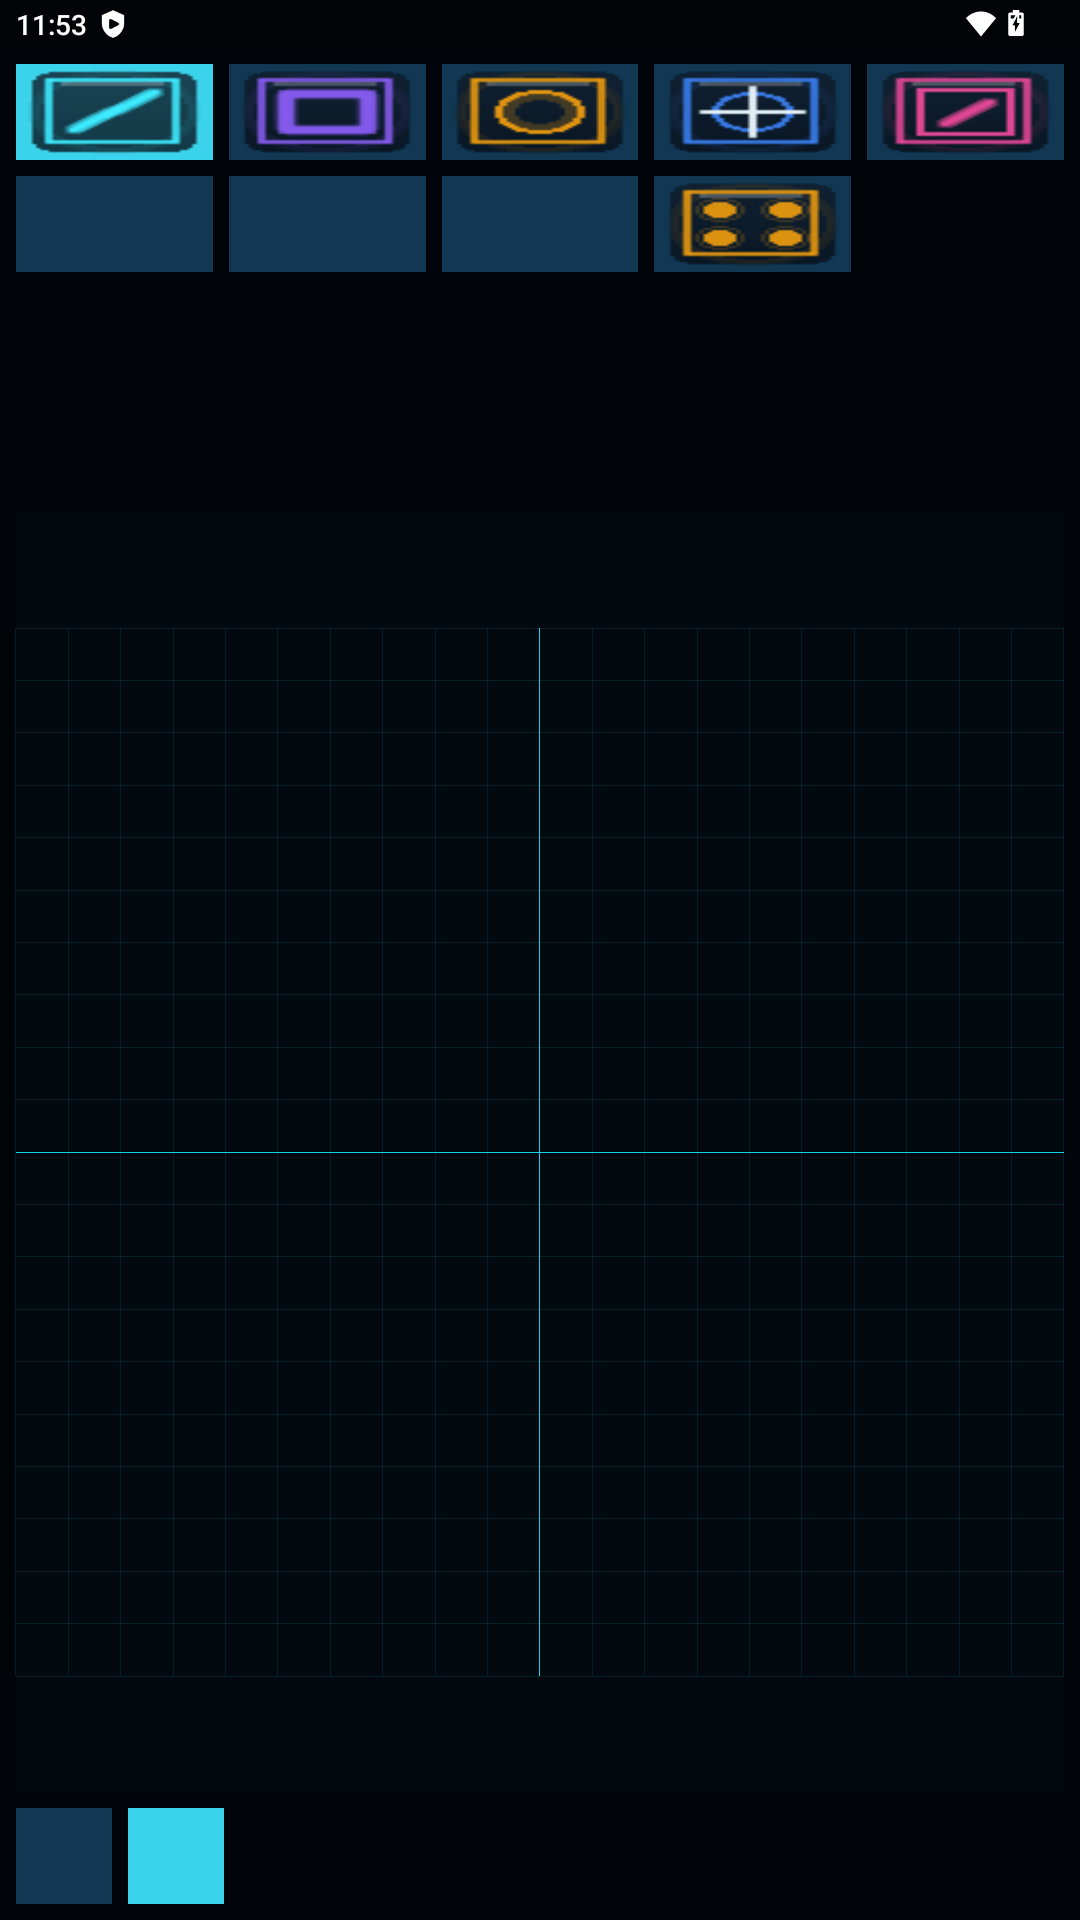
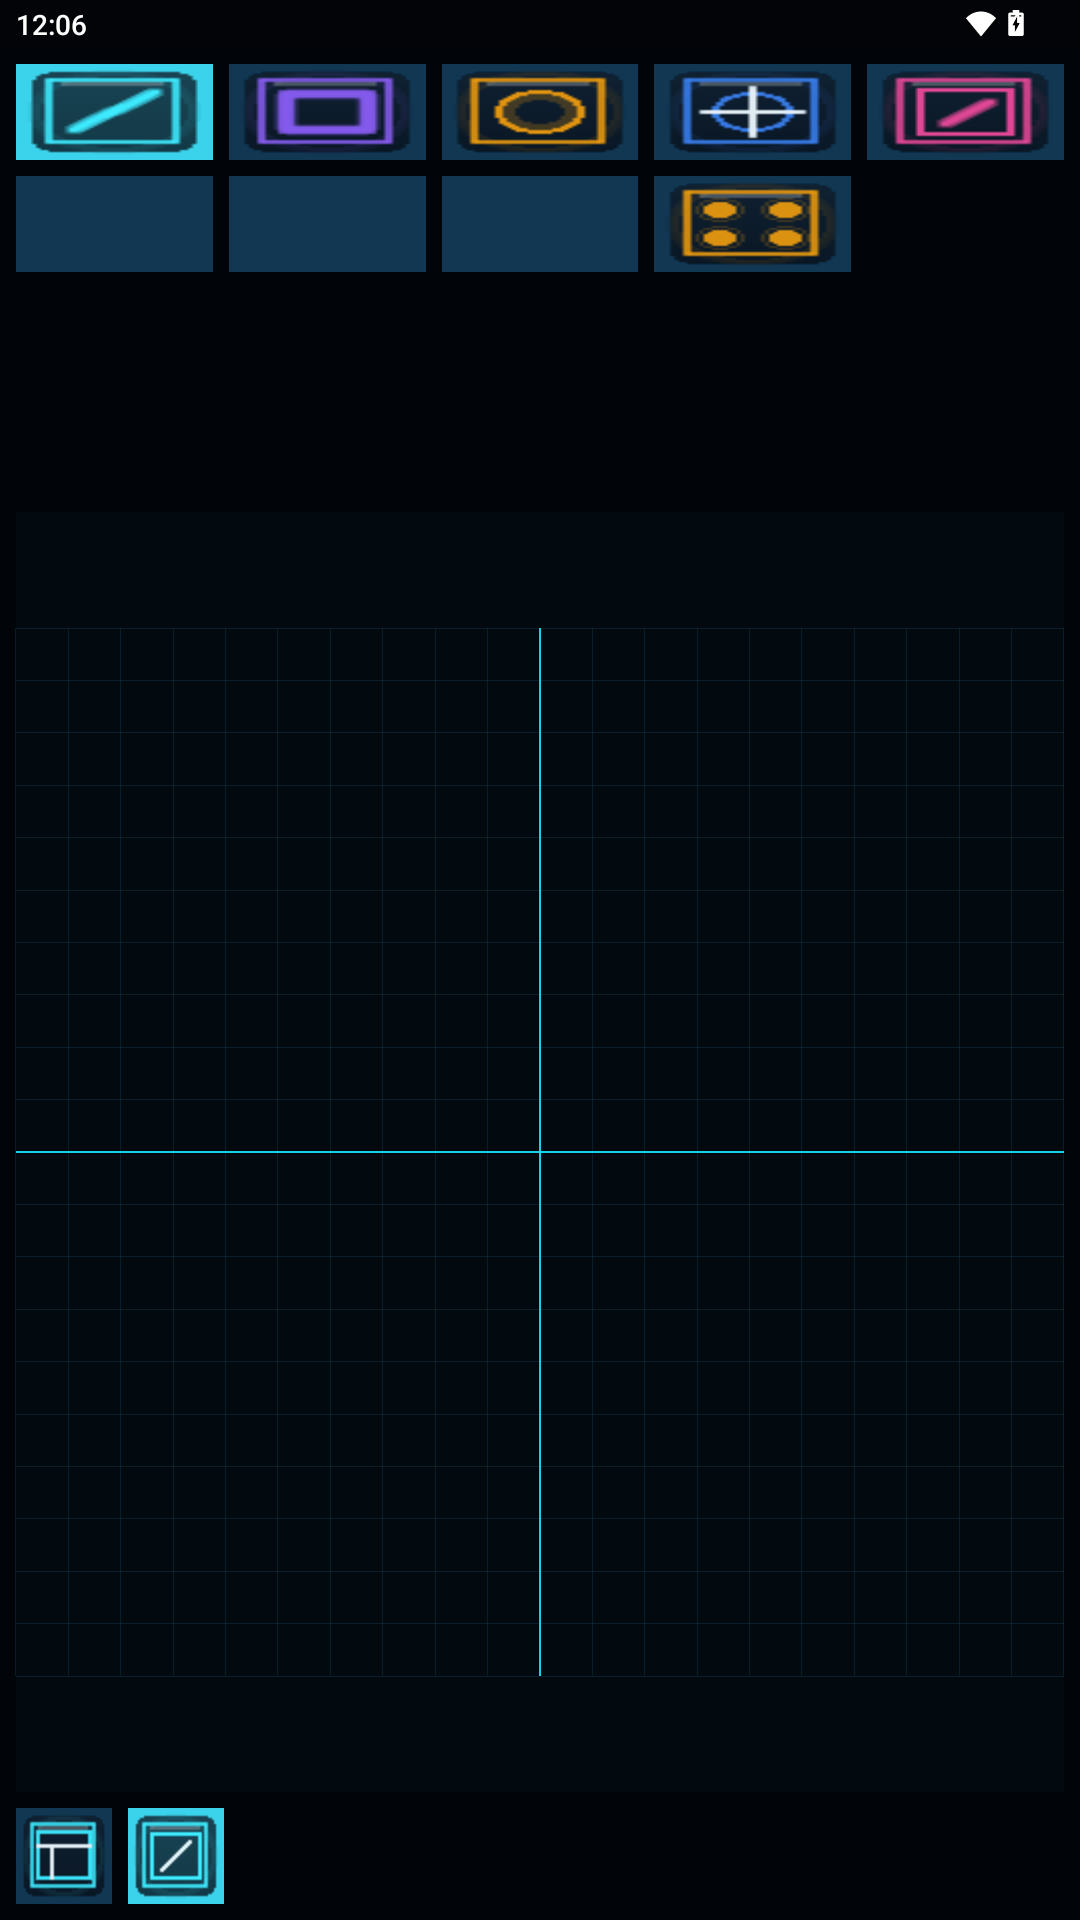
test(runtime4): refresh RGB navigation Nox evidence

Changed region(s): [[0.1222, 0.9375, 0.2139, 1.0], [0.0, 0.9375, 0.0917, 1.0], [0.0306, 0.0, 0.1222, 0.0312]]

diff --git a/docs/superpowers/progress/2026-10-09-fourth-runtime-cad-progress.md b/docs/superpowers/progress/2026-10-09-fourth-runtime-cad-progress.md
@@ -1,46 +1,44 @@
 # Fourth Runtime CAD Progress — AIG CNC 395-fourth-cad
 
-Date: 2026-10-09
-Branch: $branch
-Pre-Task-6 HEAD: $head
-Plan: docs/superpowers/plans/2026-10-09-fourth-runtime-foundation-cad-implementation.md
-Spec: docs/superpowers/specs/2026-10-09-aig-fourth-runtime-architecture-design.md
+Date: 2026-10-10
+Branch: `feat/aig-cnc-395-fourth-runtime-cad`
+Pre-Task-6 HEAD: `d3ea35ebf5d141988cb6761e8145b533bd0c6002`
+Verified runtime-code HEAD before evidence refresh: `891b42d9b2a0f2e014c00cf0acda9d6d6c0f578a`
+Plan: `docs/superpowers/plans/2026-10-09-fourth-runtime-foundation-cad-implementation.md`
+Spec: `docs/superpowers/specs/2026-10-09-aig-fourth-runtime-architecture-design.md`
 
 ## Completed
 
-- Added backend-neutral
-untime-contract and CadRuntimePort command/state boundary.
-- Wrapped the existing real CAD core with FourthCadRuntimeAdapter; renderer code does not call legacy UI panels.
-- Added RGB Scene Graph with deterministic hit testing, adaptive layout, local messages and one-key CAD.TOOL_GROUP popup.
-- Cut approved AIG RGB assets into direct GPU node textures: LINE, RECT, CIRCLE, HOLE, SELECT and TOOL_GROUP; provenance + SHA-256 are verified against source assets.
-- Added one real Android GLES3 surface. Functional CAD is not a full-page cad.png, Android Button or ImageView overlay.
-- Added separate fourth-architecture launcher APK with no CleanMainActivity, app-production or Swing/AWT parent.
-- Nox real runtime verified HOME -> CAD -> HOME and real CAD commands through touch input.
+- Added backend-neutral `runtime-contract` and `CadRuntimePort` command/state boundary.
+- Wrapped the proven CAD core with `FourthCadRuntimeAdapter`; Renderer does not call legacy UI panels.
+- Added RGB Scene Graph with deterministic hit testing, adaptive layout, local messages, and one-key `CAD.TOOL_GROUP` popup.
+- AIG RGB textures are direct GPU nodes: LINE, RECT, CIRCLE, HOLE, SELECT, TOOL_GROUP, HOME (`workspace.png`) and CAD (`cad.png`).
+- Texture provenance + SHA-256 are verified against `engineering-assets/images`; HOME/CAD navigation no longer uses fallback color blocks.
+- Added one real Android GLES3 surface. Functional CAD is not a full-page `cad.png`, Android Button, ImageView, or legacy shell overlay.
+- Added a separate fourth-architecture launcher APK with no `CleanMainActivity`, `app-production`, Swing, or AWT parent.
+- Nox real runtime verified HOME → CAD → HOME and real CAD commands through touch input.
 
 ## Runtime evidence
 
-Nox: Android 12, 320 dpi, physical 1920x1080 with portrait/landscape rotation; runtime reported OpenGL ES 3.1.
-APK: $apk
-APK size: $apkSize bytes
-APK SHA-256: $apkHash
-Evidence: $evidenceRel
+Nox: Android 12, 320 dpi, physical 1920×1080; runtime reports `OpenGL ES 3.1`.
+APK: `product-host-android/build/outputs/apk/debug/product-host-android-debug.apk`
+APK size: `1559151` bytes
[1 lines of base64/hex data omitted]
+Evidence: `evidence/android-fourth-cad-395`
 
-Evidence includes home.png, cad.png, cad-line.png, cad-tool-group.png, offline-home.png,
-otated-cad.png,
-untime-logcat.txt and
-otation-logcat.txt where present.
+Fresh evidence for this APK includes `home.png`, `cad.png`, `cad-line.png`, `cad-tool-group.png`, `offline-home.png`, `rotated-cad.png`, `runtime-logcat.txt`, and `rotation-logcat.txt`.
 
 Verified runtime sequence:
-AIG4_GLES|FIRST_FRAME|PASS -> HOME_TO_CAD -> zero-length LINE rejected locally -> valid LINE accepted REV=1 -> SELECT -> UNDO REV=2 -> REDO REV=3 -> SNAP -> TOOL_GROUP expanded -> OFFSET accepted REV=4 -> CAD_TO_HOME.
+`AIG4_GLES|FIRST_FRAME|PASS → HOME_TO_CAD → zero-length LINE REJECTED|LOCAL_MESSAGE → valid LINE REV=1 → SELECT → UNDO REV=2 → REDO REV=3 → SNAP → TOOL_GROUP expanded → OFFSET REV=4 → CAD_TO_HOME`.
 
-Offline-first was verified with Nox Wi-Fi disabled and a fresh process still reaching AIG4_GLES|FIRST_FRAME|PASS. Nox exposes no cellular phone service, so Wi-Fi is the meaningful external network path on this emulator.
+Offline-first: Wi-Fi was disabled, the process was relaunched, and `AIG4_GLES|FIRST_FRAME|PASS` still appeared. Nox exposes no cellular phone service, so Wi-Fi is the meaningful external network path on this emulator.
 
-Rotation/state isolation was verified by locking portrait, creating LINE REV=1, switching to landscape with the same process PID, then creating another LINE REV=2. Renderer/surface resize did not reset authoritative CAD state.
+Rotation/state isolation was rerun on this APK: create LINE REV=1 in portrait → switch to landscape with the same process PID → create another LINE REV=2. Renderer resize did not reset authoritative CAD state.
 
 ## No-red-lock result
 
-A zero-length LINE generated REJECTED|LOCAL_MESSAGE only. The next valid LINE succeeded immediately and advanced revision. The page/product remained operational; there is no global red lock state in CadState.
+A zero-length LINE generated only `REJECTED|LOCAL_MESSAGE`. The next valid LINE succeeded immediately. The product stayed usable and `CadState` contains no global lock/fail state.
 
 ## Remaining after this milestone
 
-This is the Foundation + CAD vertical slice, not the full product. Next CAD standalone work still includes the remaining stable inventory/persistence and production polish such as ARC, layer/persistence/autosave/recovery/dimension workflows, richer Snap presentation, complete RGB textures/text for advanced popup tools, and additional CAD interaction refinement. After standalone CAD is complete, proceed with separate plans for CAM, 3D SIM, 3AX, 4AX, 5AX, 6AX, NC/G-code, AI/update, Windows D3D11 parity, and only then cross-module CONNECT/DISCONNECT.
+This is Fourth Runtime Foundation + CAD vertical slice, not the complete product. CAD standalone still needs remaining stable inventory/persistence and production polish such as ARC UI, layers, autosave/recovery, dimensions, richer Snap presentation, and complete advanced-tool RGB/text presentation. After standalone CAD, continue CAM, 3D SIM, 3AX, 4AX, 5AX, 6AX, NC/G-code, AI/update, Windows D3D11 parity, then Shared Link Graph CONNECT/DISCONNECT.
